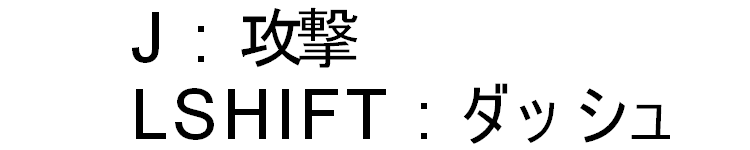
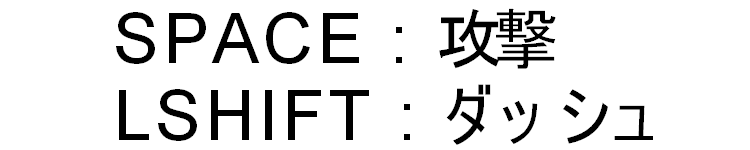
UIの位置調整

diff --git a/application/UI/Ui.cpp b/application/UI/Ui.cpp
@@ -7,23 +7,29 @@ void UI::Init()
 	explanation_ = std::make_unique<Sprite>();
 	explanation_->Initialize("explanation.png", spPos_, { 1,1,1,1 }, { 0.5f,0.5f });
 	explanation_->SetSize(explanation_->GetSize() / 1.25f);
+	explanation2_ = std::make_unique<Sprite>();
+	explanation2_->Initialize("explanation2.png", spPos2_, { 1,1,1,1 }, { 0.5f,0.5f });
+	explanation2_->SetSize(explanation2_->GetSize() / 1.25f);
 	LoadFromJson();
 }
 
 void UI::Update()
 {
 	explanation_->SetPosition(spPos_);
+	explanation2_->SetPosition(spPos2_);
 }
 
 void UI::Draw()
 {
 	explanation_->Draw();
+	explanation2_->Draw();
 }
 
 void UI::Debug()
 {
 	ImGui::Begin("UI");
 	ImGui::DragFloat2("位置", &spPos_.x, 1.0f);
+	ImGui::DragFloat2("位置2", &spPos2_.x, 1.0f);
 
 	if (ImGui::Button("セーブ")) {
 		SaveToJson();
@@ -39,6 +45,7 @@ void UI::SaveToJson()
 	json j;
 	
 	j["translation"] = { spPos_.x,spPos_.y };
+	j["translation2"] = { spPos2_.x,spPos2_.y };
 
 	// ディレクトリを作成し、JSONファイルを保存
 	std::filesystem::create_directories("resources/jsons/UI/");
@@ -57,4 +64,5 @@ void UI::LoadFromJson()
 	inFile >> j;
 
 	spPos_ = { j["translation"][0],j["translation"][1] };
+	spPos2_ = { j["translation2"][0],j["translation2"][1] };
 }

diff --git a/application/Player/Player.cpp b/application/Player/Player.cpp
@@ -98,7 +98,7 @@ void Player::Update()
 		break;
 	}
 
-	if (Input::GetInstance()->TriggerKey(DIK_J)) {
+	if (Input::GetInstance()->TriggerKey(DIK_SPACE)) {
 		comboTimer_ = 1.0f;
 		behaviorRequest_ = Behavior::kAttack;
 	}
@@ -267,14 +267,14 @@ void Player::HandleCombo()
 {
 	if (comboTimer_ > 0.0f) {
 		// コンボタイマーが残っている間はコンボ入力を受け付ける
-		if (Input::GetInstance()->TriggerKey(DIK_J) && isNextAttack_) {
+		if (Input::GetInstance()->TriggerKey(DIK_SPACE) && isNextAttack_) {
 			// 攻撃入力があったらコンボを進める
 			ProcessComboInput();
 			isNextAttack_ = false;  // 次の攻撃が開始されたのでフラグをリセット
 			//R_arm_wt.rotation_.y = transform_.rotation_.y - 0.6f;
 			attackTimer_ = 0.0f;
 		}
-		else if (Input::GetInstance()->TriggerKey(DIK_J)) {
+		else if (Input::GetInstance()->TriggerKey(DIK_SPACE)) {
 			// `J` が押されていて `isNextAttack_` が `false` の場合、入力をキープする
 			isJKeyPressed_ = true;
 		}

diff --git a/scene/TitleScene.cpp b/scene/TitleScene.cpp
@@ -23,7 +23,7 @@ void TitleScene::Initialize()
 	debugCamera_->Initialize(&vp_);
 
 	emitter_ = std::make_unique<ParticleEmitter>();
-	emitter_->Initialize("death", "Enemy/deathParticle.obj");
+	emitter_->Initialize("demo", "debug/plane.obj");
 }
 
 void TitleScene::Finalize()
@@ -72,7 +72,8 @@ void TitleScene::Draw()
 	/// Particleの描画準備
 	ptCommon_->DrawCommonSetting();
 	//------Particleの描画開始-------
-	emitter_->UpdateOnce(vp_);
+	//emitter_->UpdateOnce(vp_);
+	emitter_->Update(vp_);
 	emitter_->Draw();
 	//-----------------------------
 

diff --git a/application/Enemy/Enemy.cpp b/application/Enemy/Enemy.cpp
@@ -9,6 +9,7 @@ void Enemy::Init(const std::string className)
 	BaseObject::CreateModel("debug/Cube.obj");
 	BaseObject::CreateCollider();
 	Collider::SetCollisionType(CollisionType::OBB);
+	Collider::SetVisible(false);
 	objColor_.SetColor({ 1.0f,0.0f,0.0f,1.0f });
 	transform_.translation_ += transform_.scale_.y;
 	HP_ = 10;

diff --git a/application/Enemy/EnemyManager.cpp b/application/Enemy/EnemyManager.cpp
@@ -30,7 +30,6 @@ void EnemyManager::DrawParticle(const ViewProjection& vp)
 		spawnEffect->UpdateOnce(vp);
 		spawnEffect->Draw();
 	}
-	ParticleCommon::GetInstance()->SetBlendMode(BlendMode::kNormal);
 	for (auto& deathParticle : deathParticles_) {
 		deathParticle->UpdateOnce(vp);
 		deathParticle->Draw();

diff --git a/application/UI/Ui.h b/application/UI/Ui.h
@@ -14,6 +14,8 @@ public:
 private:
 	using json = nlohmann::json;
 	std::unique_ptr<Sprite> explanation_;
+	std::unique_ptr<Sprite> explanation2_;
 	Vector2 spPos_;
+	Vector2 spPos2_;
 };
 
